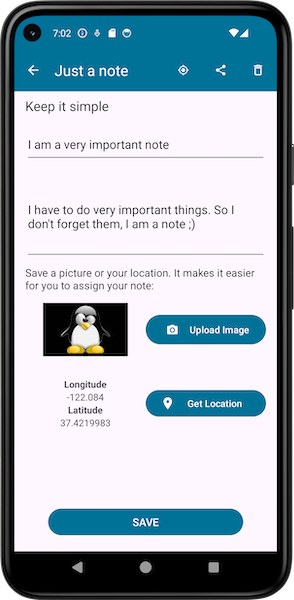
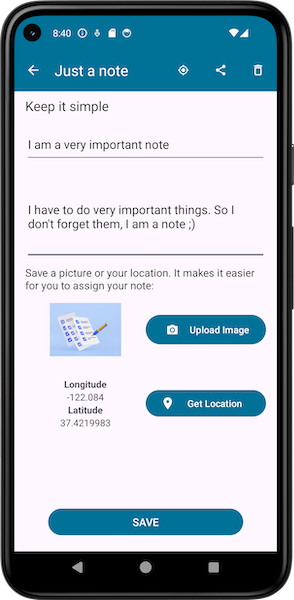
Added Image Credits

Changed region(s): [[0.1224, 0.48, 0.4592, 0.6], [0.1224, 0.42, 0.8878, 0.45], [0.1531, 0.03, 0.2449, 0.06]]

diff --git a/README.md b/README.md
@@ -93,3 +93,9 @@ compileSdk = 34
 ## Developed by
 
 Edwin Pichler, Erik Handler, Michael Tausch
+
+## Images
+
+[Image by kstudio on Freepik](https://www.freepik.com/free-photo/untidy-pile-various-colors-sticky-post-notes-with-pushpin-isolated-white_2571689.htm#query=notes&from_query=notizen&position=20&from_view=search&track=sph&uuid=49ef48b9-8a77-4264-8d61-419ecb6faa60)
+[Image by upklyak on Freepik](https://www.freepik.com/free-photo/3d-illustration-pen-putting-blue-ticks-paper_33062183.htm#query=notes&from_query=notizen&position=22&from_view=search&track=sph&uuid=49ef48b9-8a77-4264-8d61-419ecb6faa60)
+[Image by rawpixel.com on Freepik](https://www.freepik.com/free-photo/forget-notice-reminder-words-graphic-concept_16436707.htm#query=notes&from_query=notizen&position=6&from_view=search&track=sph&uuid=05661dc2-0fcf-4ac5-b377-9eefb82d4611)
